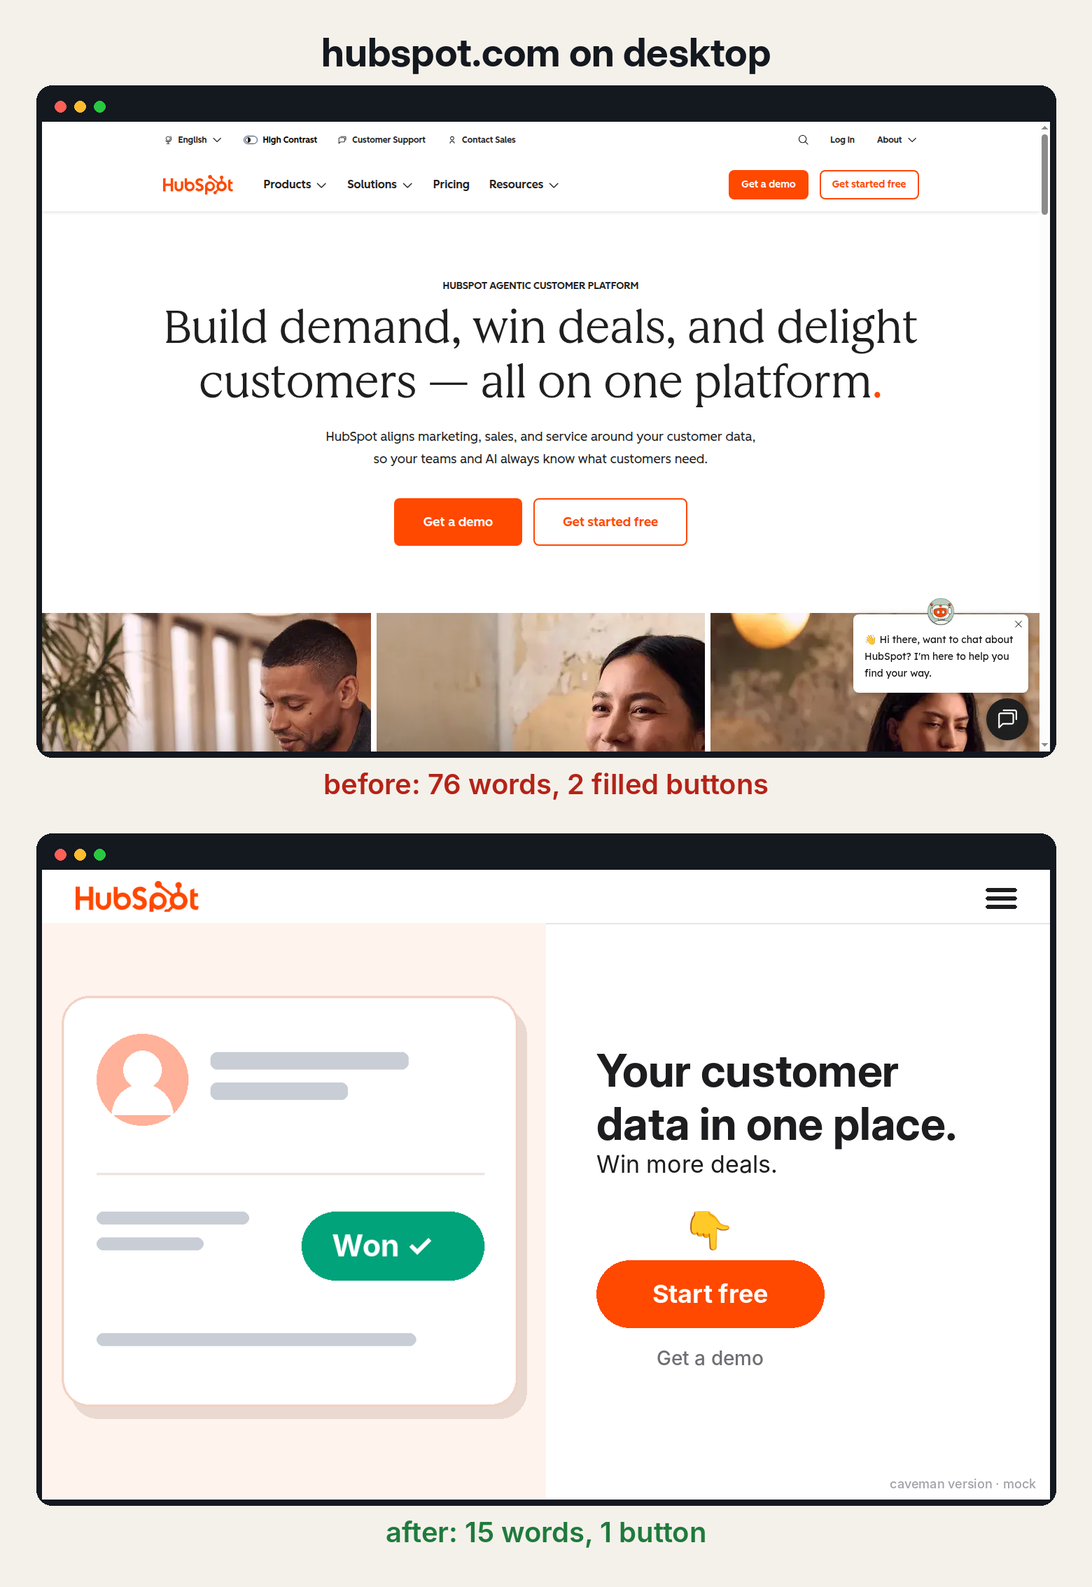
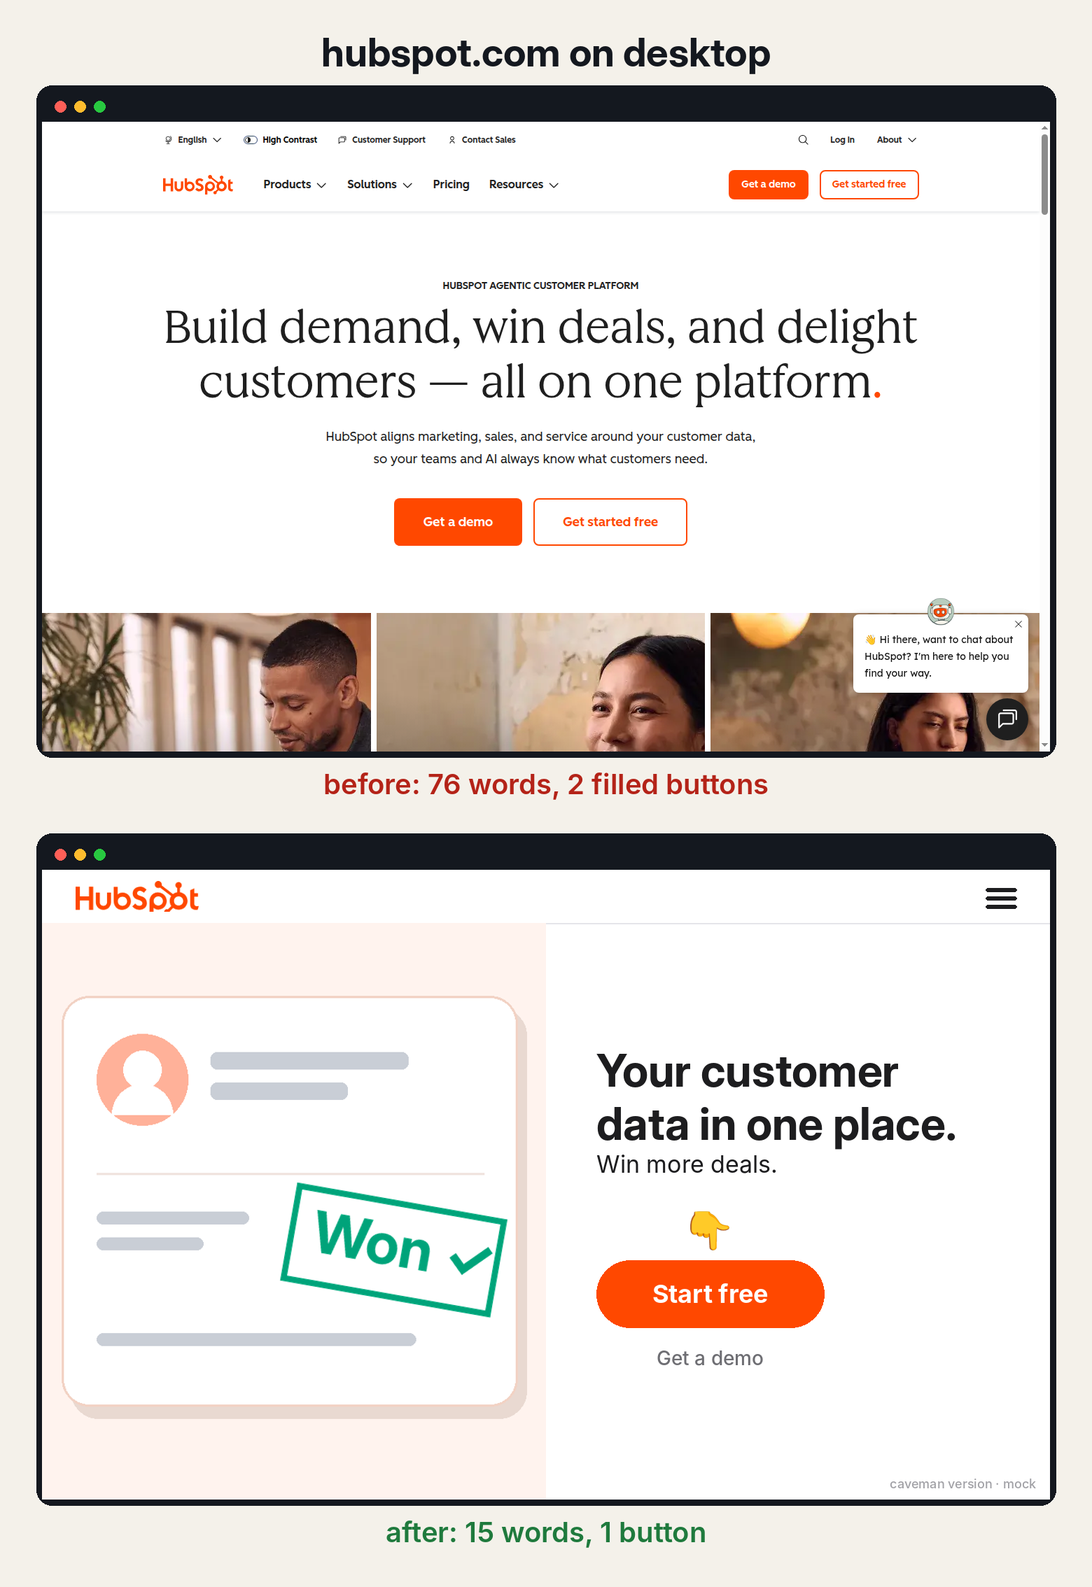
fix(caveman-marketing): nothing in the picture may look like a second button (DIVE-6603)
lodar: the green "Won" pill in HubSpot's drawn picture read as a second
button. The skill now says so, and the HubSpot and Atlassian pictures use a
stamp and a plain column title instead.

Changed region(s): [[0.2491, 0.741, 0.467, 0.8336]]

diff --git a/caveman-marketing/SKILL.md b/caveman-marketing/SKILL.md
@@ -53,6 +53,8 @@ grunt test. This skill adds hard numbers and covers ads and funnels too.
 3. **One button.** Exactly one filled button, the biggest and brightest thing on the
    screen, with 👇 right above it. Everything else is small grey text. Three equal
    choices is a menu. The cookie banner never outshines it.
+   Nothing in the picture may look tappable either: a filled pill or chip with words on it
+   reads as a second button. Use a stamp, a tick or plain text instead.
 4. **The button says what happens next, and the next screen keeps the promise.**
    "Get started" that opens a 15-question sales form breaks it. "Pick a time" that
    opens a calendar keeps it.

diff --git a/caveman-marketing/README.md b/caveman-marketing/README.md
@@ -38,7 +38,7 @@ Look for 3 seconds, then cover the screen. Can you answer all three?
 
 1. A picture fills the top half.
 2. 15 words max. Every word counts, buttons too.
-3. One filled button, with 👇 above it.
+3. One filled button, with 👇 above it. Nothing in the picture looks like a second one.
 4. The button says what happens next.
 5. A step bar on every step of a signup.
 6. No words only your industry uses.
